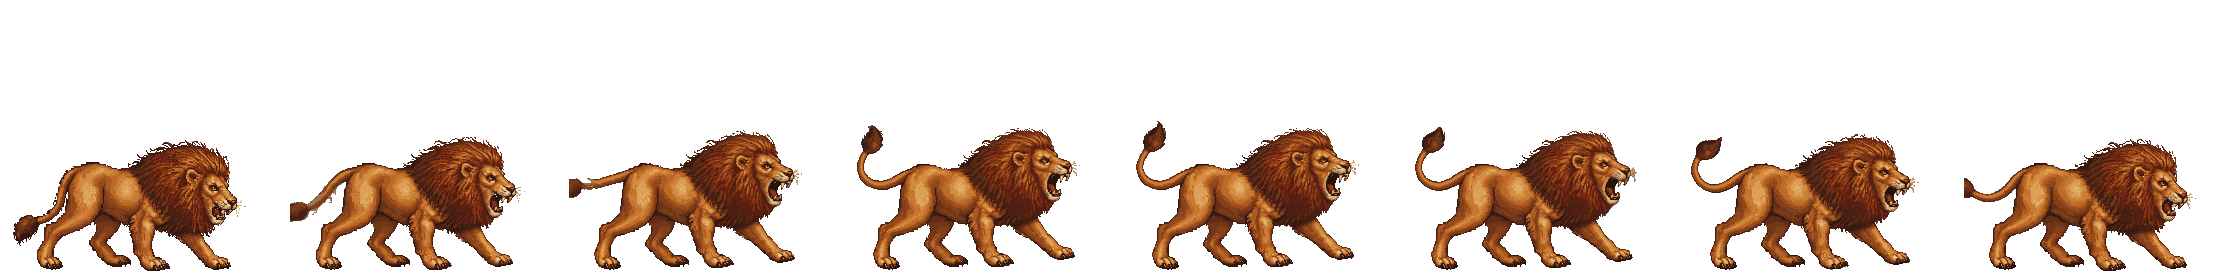
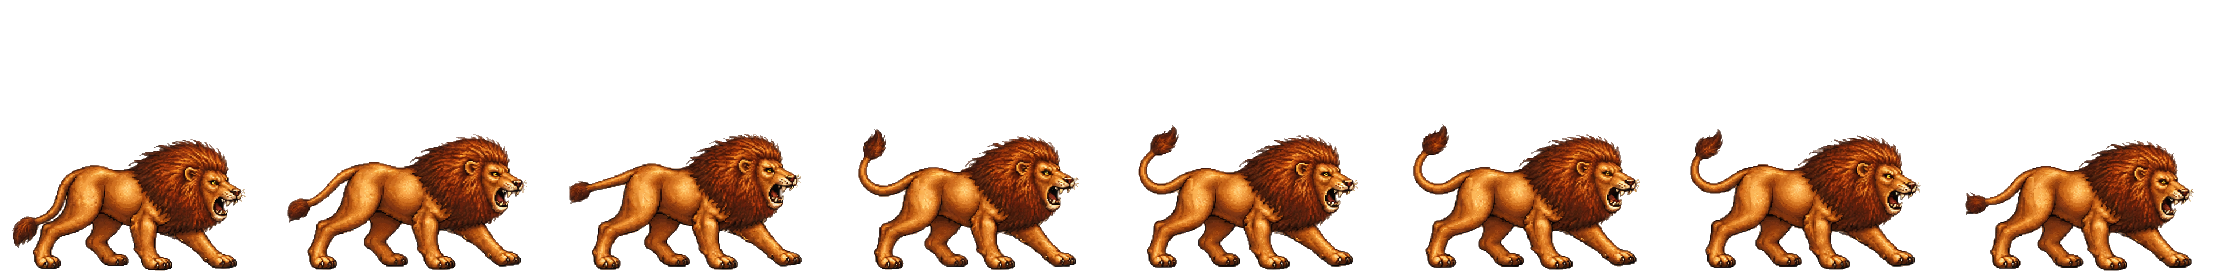
Shahnameh: refreshed lion and Rakhsh artwork with clean frame boundaries

Changed region(s): [[0.0, 0.4588, 0.9892, 0.9749]]

diff --git a/fun/shahnameh/game.js b/fun/shahnameh/game.js
@@ -66,7 +66,7 @@ const FPS = { 'rostam-tanbur': 5, 'rostam-roar': 8, 'olad-bound': 9, 'rostam-pra
 const SIZE = { queen: 150, rider: 124, rostam: 112, lion: 148, jackal: 108, div: 108, scorpion: 86, vulture: 92, ram: 86, dragon: 136, rakhsh: 128, bat: 108, serpent: 92, hag: 108, beauty: 108, spearman: 140, olad: 112, divwarrior: 100, arzhang: 136, whitediv: 204, firediv: 104, ghul: 100 };
 const BODY = { queen: [0.62, 0.42], rider: [0.3, 0.5], rostam: [0.143, 0.393], lion: [0.5, 0.36], jackal: [0.3, 0.22], div: [0.22, 0.34], scorpion: [0.4, 0.22], vulture: [0.33, 0.2], ram: [0.4, 0.4],
   dragon: [0.46, 0.42], rakhsh: [0.5, 0.5], bat: [0.32, 0.24], serpent: [0.31, 0.31], hag: [0.27, 0.42], beauty: [0.2, 0.47], spearman: [0.115, 0.386], olad: [0.17, 0.49], divwarrior: [0.31, 0.64], arzhang: [0.3, 0.7], whitediv: [0.2667, 0.3867], firediv: [0.2, 0.6], ghul: [0.5, 0.36] };
-const V = 98;
+const V = 99;
 const RAKHSH1 = 128 / 229;                                               // Rakhsh's scale in Khan I: his strip is 229 px, the horse a little larger than the lion
 const REVISED_STORY_ART = new Set(['khan1-intro', 'khan4-intro', 'khan4-outro', 'khan5-intro', 'khan5-outro', 'khan7-intro', 'end2', 'open1', 'open2', 'open3', 'open4', 'open5', 'open6', 'khan1-outro', 'khan2-intro', 'khan2-outro', 'khan3-intro', 'khan3-outro', 'khan6-intro', 'khan6-outro', 'end1', 'end3']);
 let wakeArt = false, lionPrologueSeen = false;

diff --git a/fun/shahnameh/index.html b/fun/shahnameh/index.html
@@ -1116,6 +1116,6 @@ body.calm #banner.on{animation-name:banCalm}@keyframes banCalm{0%{opacity:0}15%,
 <script src="boot.js?v=92"></script>
 <script src="assets/vendor/phaser-3.80.1.min.js" data-game-script="engine"></script>
 <script src="journey-events.js?v=123" data-game-script="journey"></script>
-<script src="game.js?v=174" data-game-script="game"></script>
+<script src="game.js?v=175" data-game-script="game"></script>
 </body>
 </html>
